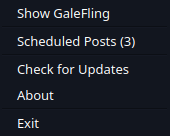
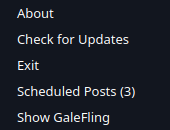
Sort the tray context menu alphabetically
About, Check for Updates, Exit, Scheduled Posts, Show GaleFling — replacing
the previous functional grouping (primary action / queue / utilities /
exit, separated by dividers). Updated the design mockup to match and added
a regression test asserting the menu's action labels are always in sorted
order.

🌸 Shipped with Kanna — https://kanna.sh

Kanna-Agent: cursor/claude-sonnet-5-thinking-high

diff --git a/src/gui/tray_icon.py b/src/gui/tray_icon.py
@@ -41,15 +41,13 @@ class TrayIcon(QSystemTrayIcon):
         self._has_pending = False
         self._has_unseen_failure = False
         self._failure_callback: Callable[[], None] | None = None
+        # Alphabetical, per user preference -- not grouped by function.
         menu = QMenu(parent)
-        self._add_action(menu, 'Show GaleFling', show_window)
-        menu.addSeparator()
-        self._scheduled_action = self._add_action(menu, 'Scheduled Posts (0)', show_scheduled)
-        menu.addSeparator()
-        self._add_action(menu, 'Check for Updates', check_updates)
         self._add_action(menu, 'About', show_about)
-        menu.addSeparator()
+        self._add_action(menu, 'Check for Updates', check_updates)
         self._add_action(menu, 'Exit', exit_app)
+        self._scheduled_action = self._add_action(menu, 'Scheduled Posts (0)', show_scheduled)
+        self._add_action(menu, 'Show GaleFling', show_window)
         self.setContextMenu(menu)
         self.activated.connect(
             lambda reason: (

diff --git a/tools/screenshots/generate_scheduling_mockups.py b/tools/screenshots/generate_scheduling_mockups.py
@@ -451,17 +451,14 @@ def capture_settings_start_at_login(app: QApplication) -> None:
 
 
 def capture_tray_menu(app: QApplication) -> None:
-    """The tray icon's right-click menu, offered once background/tray operation ships."""
+    """The tray icon's right-click menu -- alphabetical, matching tray_icon.py."""
     menu = QMenu()
     apply_theme(app)
-    menu.addAction('Show GaleFling')
-    menu.addSeparator()
-    menu.addAction('Scheduled Posts (3)')
-    menu.addSeparator()
-    menu.addAction('Check for Updates')
     menu.addAction('About')
-    menu.addSeparator()
+    menu.addAction('Check for Updates')
     menu.addAction('Exit')
+    menu.addAction('Scheduled Posts (3)')
+    menu.addAction('Show GaleFling')
     menu.move(0, 0)
     menu.show()
     QApplication.processEvents()

diff --git a/tests/test_tray_icon.py b/tests/test_tray_icon.py
@@ -18,6 +18,14 @@ def _make_tray(qtbot):
     return tray
 
 
+def test_tray_context_menu_options_are_alphabetical(qtbot):
+    tray = _make_tray(qtbot)
+
+    labels = [action.text() for action in tray.contextMenu().actions()]
+
+    assert labels == sorted(labels)
+
+
 def test_tray_actions_log_and_pending_count_updates(qtbot, monkeypatch):
     messages = []
     calls = []
